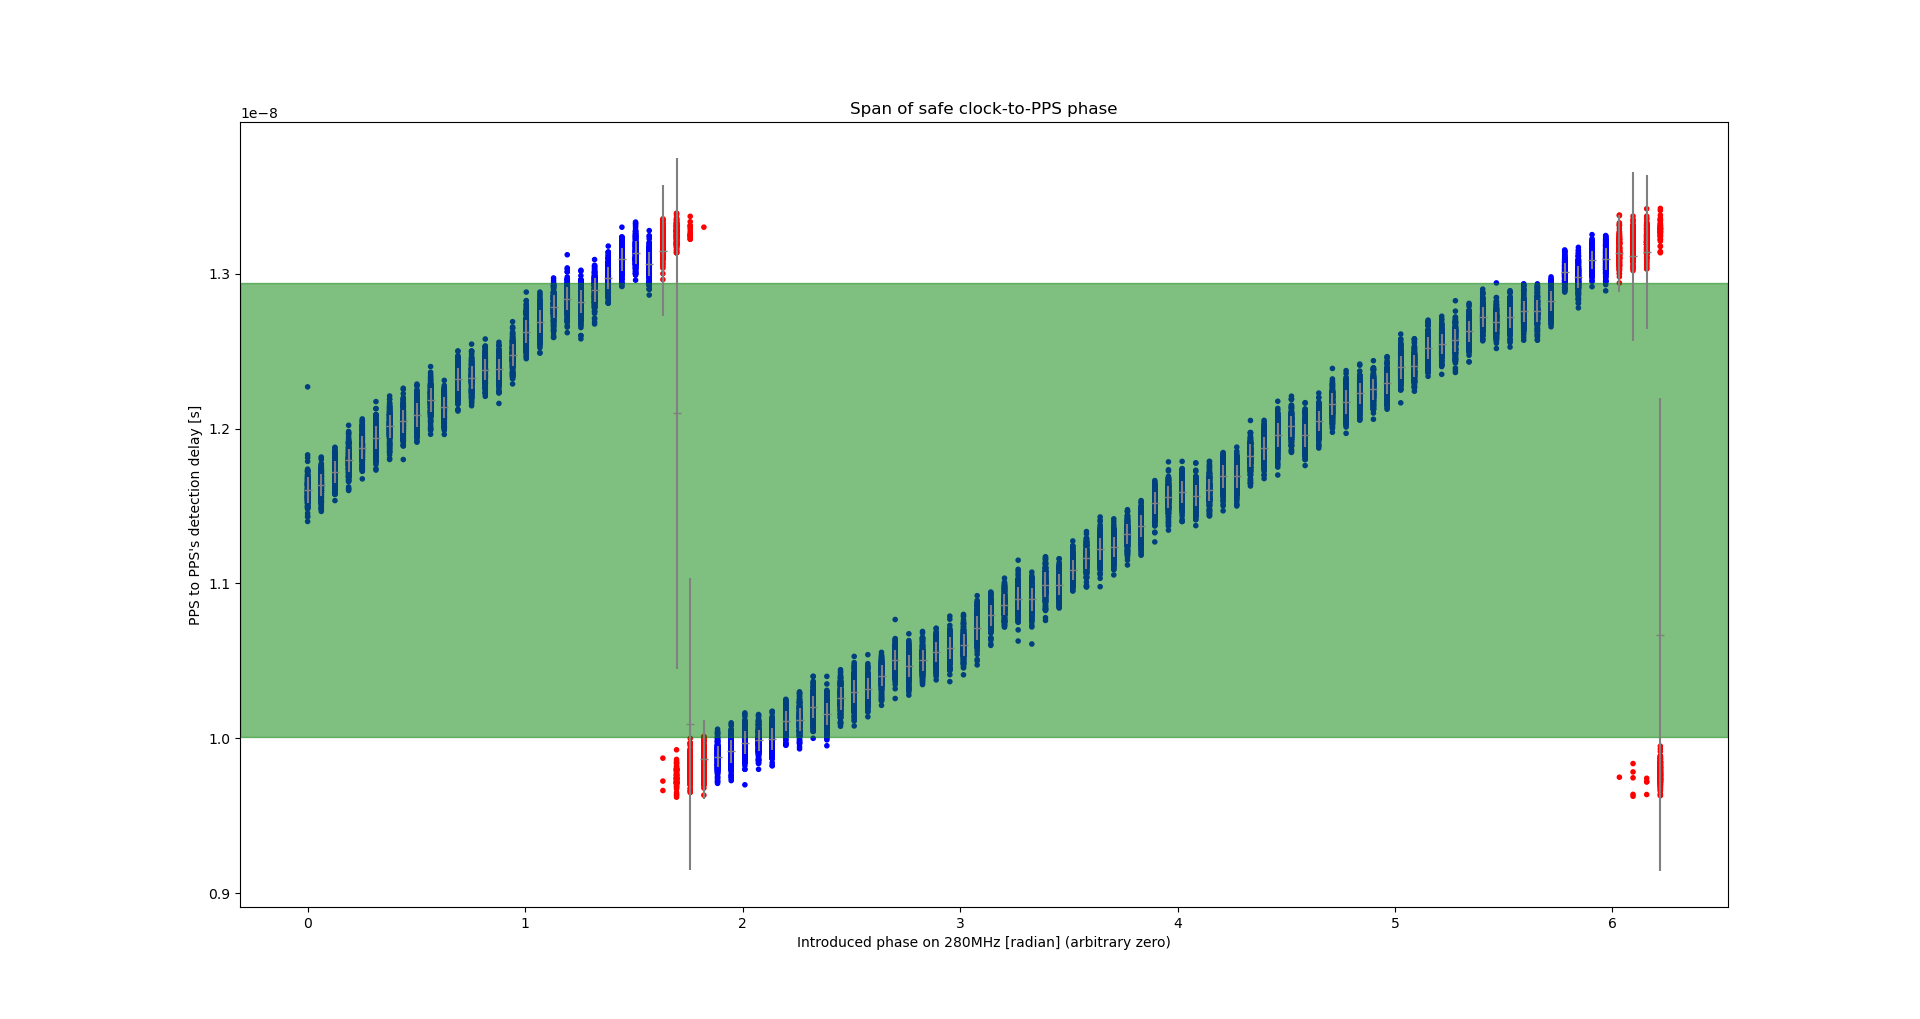
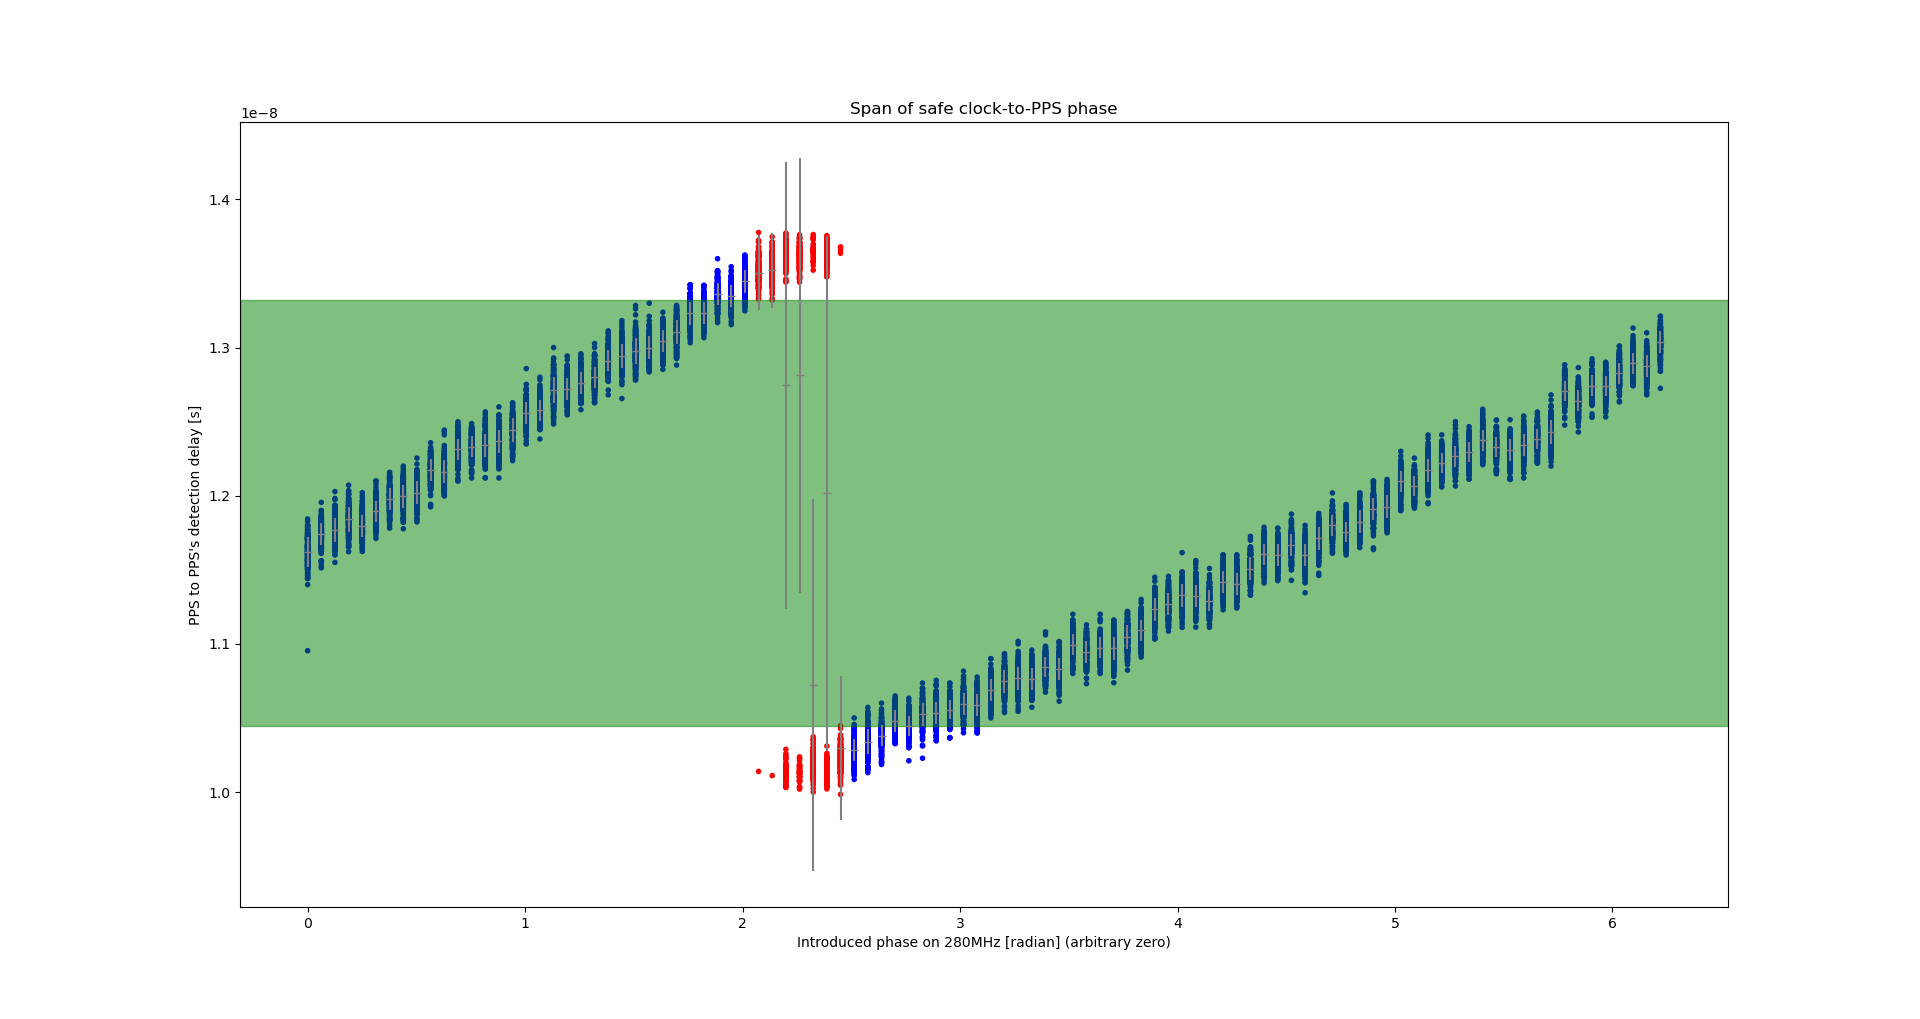
add doc on pps calibration

Changed region(s): [[0.125, 0.1825, 0.9062, 0.791], [0.4062, 0.4563, 0.4375, 0.578], [0.4062, 0.3651, 0.4375, 0.3955]]

diff --git a/amaranth_twstft/calibration.py b/amaranth_twstft/calibration.py
@@ -74,6 +74,15 @@ def acquire(s, synth, oscil, steps=10, reps=10):
 
     def pps_handler(s, code):
         nonlocal i, j, last_pps_early
+        if j == reps:
+            i += 1
+            j = 0
+            results.append(list())
+            synth.write(f'PHASE {2*math.pi*i/steps/28}')
+            synth.ask('*OPC?')
+        if i == steps:
+            s.close()
+            return
         if code == SerialOutCodes.PPS_EARLY:
             if last_pps_early:
                 double_jumps.append((i, j))
@@ -82,14 +91,6 @@ def acquire(s, synth, oscil, steps=10, reps=10):
         offset = get_pps_offset(oscil)
         print(offset)
         if math.isnan(offset):
-            return
-        if j == reps:
-            i += 1
-            j = 0
-            results.append(list())
-            synth.write(f'PHASE {2*math.pi*i/steps/28}')
-        if i == steps:
-            s.close()
             return
         results[i].append(offset)
         j += 1
@@ -132,9 +133,9 @@ def experiment2():
     set_taps(s, 17, 53)
     synth, oscil = find_instruments()
     res = acquire(s, synth, oscil, 100, 200)
-    with open('results_antena_off2.txt', 'w') as f:
+    with open('results_antena_off.txt', 'w') as f:
         f.write(str(res))
-    get_view(oscil, save='view_antena_off2.txt')
+    get_view(oscil, save='view_antena_off.txt')
 
     s = new_serial('/dev/ttyUSB1')
     set_mode(s, Mode.CARRIER)
@@ -150,7 +151,7 @@ def experiment2():
         f.write(str(res))
     get_view(oscil, save='view_antena_bpsk.txt')
 
-def show(results):
+def show(results, double_jumps=[]):
     steps = len(results)
     reps = len(results[0])
     span = lambda x: max(x) - min(x)
@@ -174,6 +175,10 @@ def show(results):
                 )
     except:
         print('Couldn\'t find safe span.')
+
+    x_dj = [2*math.pi*i/steps for i, _j in double_jumps]
+    y_dj = [results[i + (j==reps)][j%reps] for i, j in double_jumps]
+    plt.scatter(x_dj, y_dj,marker='+', c='black')
 
     plt.title('Span of safe clock-to-PPS phase')
     plt.xlabel('Introduced phase on 280MHz [radian] (arbitrary zero)')

diff --git a/Doc/01_usage.md b/Doc/01_usage.md
@@ -4,7 +4,7 @@ Previous step : [Installation of Amaranth and cie](00_Installation.md)
 
 This section details how to flash the gateware and how to configure the FPGA via UART serial.
 
-## bitstream generation
+## Bitstream generation
 
 ```
 usage: flashZedBoard.py [-h] [--platform PLATFORM] [--bitlen BITLEN] [--noiselen NOISELEN] [-m MODFREQ] [-p] [-v]
@@ -154,6 +154,45 @@ To monitor these warnings, use option `-m`. To also get messages when the PPS ar
 All option, are compatibles, when using `-m`, all config modifications are performed before the monitoring begins.
 It is also possible to modify config while another instance of the script is monitoring, but beware that the monitoring will crash if another instance tries to read from the serial port.
 
+## Calibration
+
+On certains phase conditions between the input PPS and the input 10MHz clock,
+a small jitter can be enouth for the PPS to be detected in one tick or another in the 280Hz clock domain.
+In order to avoid these conditions, it may be necessary to phase shift the input PPS to ensure that it will always be detected during the same tick.
+
+### Finding the safe phase conditions
+
+To find the safe phase conditions, we need a way to phase shift the PPS signal by a whole 280MHz phase (~3.6ns) and an osciloscope to monitor the effect of the phase shift.
+
+To automate the search for a safe phase span, we used an Agilent 33220A arbitrary waveform generator to phase shift the 10MHz clock ticking the PPS generator, and a Rohde & Schwarz RTO2034 osciloscope triggered at the rising edge of the input PPS looking for the rising edge of the detected PPS.
+To output the detected PPS on the FPGA's calibration pin, use the command :
+```
+./twstft_config.py -d DEVICE -C PPS
+```
+
+Setup for PPS calibration :
+<img src='../figures/pps_calib_setup.png'>
+
+For the cmod-a7 board, we performed 3 phase-sweeps, each with a 36ps step and 200 acquisitions per step,
+once without emiting on the antena pin, once emiting a clean carrier and once emiting a BPSK modulated signal.
+These two acquisitions are to ensure that cross-wire interference from the antena pin doesn't affect PPS detection.
+
+Results with antena output off:
+<img src='../experiments/250103_PPS_calibration/safe_span_for_pps_2.png'>
+
+Results with antena output emiting a clean carrier:
+<img src='../experiments/250103_PPS_calibration/safe_span_for_pps_2.png'>
+
+Results with antena output emiting a BPSK modulated signal:
+<img src='../experiments/250103_PPS_calibration/safe_span_for_pps_2.png'>
+
+For the cmod-a7 board, we find that a 12ns delay between the rising edges at a 1V threshold, is safe.
+
+**Note :** the calibration pin has a notch filter set at 70MHz in order to cancel cross-wire interference from the antena.
+
+**Note :** when setting up a twstft station with a cmod-a7 board, it is not necessary to replicate these aquisitions.
+Only to ensure that the mesured delay between the rising edges at a 1V threshold is in the green span of the above diagrams.
+When we will support other fpga boards, we will add the safe spans for each of them.
 
 ## Pin functions
 
